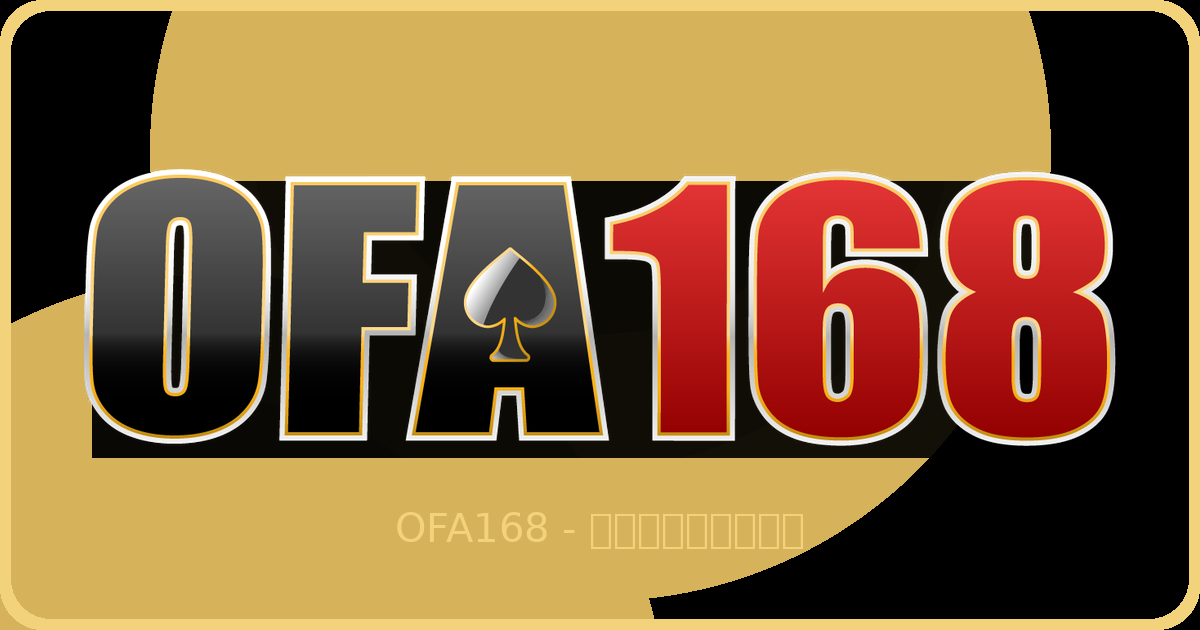
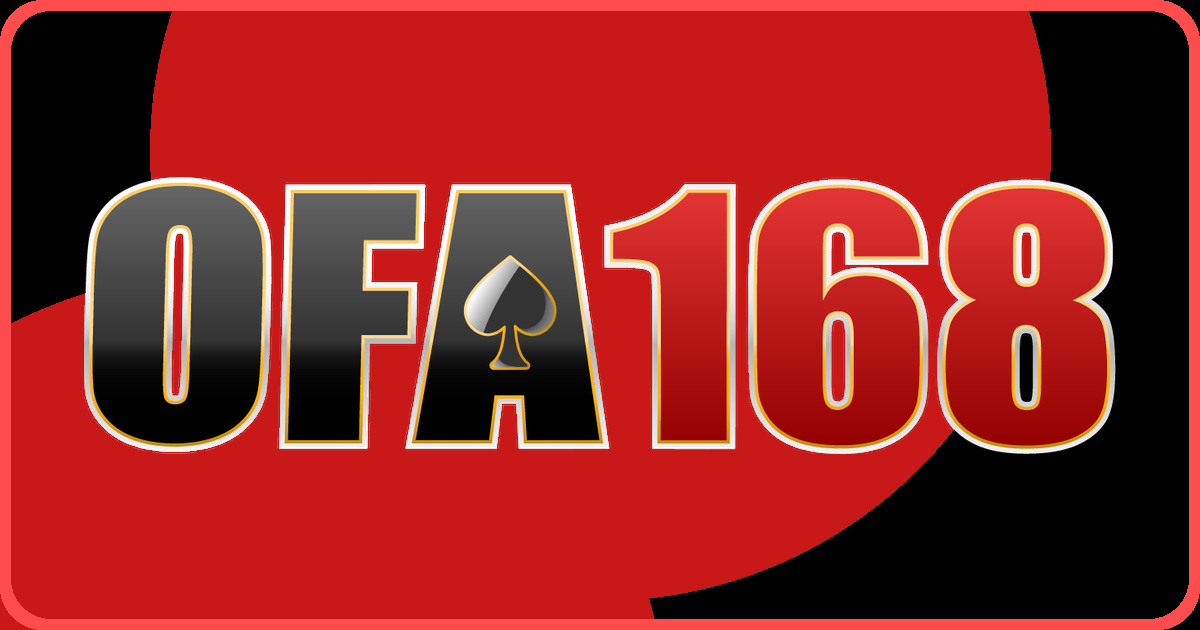
Add files via upload

diff --git a/111/index.html b/111/index.html
@@ -28,10 +28,10 @@
 
   <style>
     :root{
-      --gold:#d6b25a;
-      --gold2:#f2d27a;
-      --shadow: 0 18px 60px rgba(214,178,90,0.16);
-      --glow: 0 0 28px rgba(214,178,90,0.28), 0 0 70px rgba(214,178,90,0.10);
+      --gold:#c91818;
+      --gold2:#ff4d4d;
+      --shadow: 0 18px 60px rgba(201,24,24,0.16);
+      --glow: 0 0 28px rgba(201,24,24,0.28), 0 0 70px rgba(201,24,24,0.10);
       --radius: 22px;
     }
     *{ box-sizing:border-box; }
@@ -39,8 +39,8 @@
     body{
       margin:0;
       font-family: system-ui, -apple-system, "Segoe UI", Roboto, "Noto Sans TC", "PingFang TC", "Microsoft JhengHei", Arial, sans-serif;
-      background: radial-gradient(1200px 900px at 50% -10%, rgba(214,178,90,0.16), transparent 60%),
-                  radial-gradient(900px 700px at 20% 110%, rgba(214,178,90,0.10), transparent 55%),
+      background: radial-gradient(1200px 900px at 50% -10%, rgba(201,24,24,0.16), transparent 60%),
+                  radial-gradient(900px 700px at 20% 110%, rgba(201,24,24,0.10), transparent 55%),
                   #000;
       color:#fff;
       display:flex;
@@ -60,7 +60,7 @@
     }
     .card{
       background: linear-gradient(180deg, rgba(16,16,16,0.86), rgba(0,0,0,0.66));
-      border: 1px solid rgba(214,178,90,0.55);
+      border: 1px solid rgba(201,24,24,0.55);
       border-radius: var(--radius);
       box-shadow: var(--shadow), var(--glow);
       overflow:hidden;
@@ -69,7 +69,7 @@
     .card::before{
       content:"";
       position:absolute; inset:-2px;
-      background: linear-gradient(135deg, rgba(242,210,122,0.38), rgba(154,123,47,0.08), rgba(242,210,122,0.20));
+      background: linear-gradient(135deg, rgba(255,77,77,0.38), rgba(154,123,47,0.08), rgba(255,77,77,0.20));
       filter: blur(18px);
       opacity: 0.35;
       pointer-events:none;
@@ -82,7 +82,7 @@
       height: auto;
       display:block;
       object-fit: contain;
-      filter: drop-shadow(0 10px 24px rgba(214,178,90,0.22));
+      filter: drop-shadow(0 10px 24px rgba(201,24,24,0.22));
       user-select:none;
       -webkit-user-drag:none;
     }
@@ -99,7 +99,7 @@
       width: 86px;
       height: 2px;
       margin: 8px auto 0;
-      background: linear-gradient(90deg, transparent, rgba(242,210,122,0.95), transparent);
+      background: linear-gradient(90deg, transparent, rgba(255,77,77,0.95), transparent);
       border-radius: 999px;
       opacity: 0.9;
     }
@@ -109,7 +109,7 @@
       aspect-ratio: 1 / 1;
       border-radius: 16px;
       overflow:hidden;
-      border: 1px solid rgba(214,178,90,0.35);
+      border: 1px solid rgba(201,24,24,0.35);
       background:#000;
       display:flex;
       align-items:center;
@@ -132,15 +132,15 @@
       gap:12px;
       padding: 18px 18px;
       border-radius: 16px;
-      border: 1px solid rgba(242,210,122,0.85);
-      background: linear-gradient(135deg, rgba(242,210,122,0.98), rgba(214,178,90,0.92), rgba(154,123,47,0.92));
+      border: 1px solid rgba(255,77,77,0.85);
+      background: linear-gradient(135deg, rgba(255,77,77,0.98), rgba(201,24,24,0.92), rgba(154,123,47,0.92));
       color: rgba(0,0,0,0.92);
       font-weight: 900;
       font-size: 22px;
       letter-spacing: 0.4px;
       cursor:pointer;
       text-decoration:none;
-      box-shadow: 0 18px 50px rgba(214,178,90,0.22), 0 0 34px rgba(214,178,90,0.16);
+      box-shadow: 0 18px 50px rgba(201,24,24,0.22), 0 0 34px rgba(201,24,24,0.16);
       -webkit-tap-highlight-color: transparent;
       user-select:none;
       position: relative;
